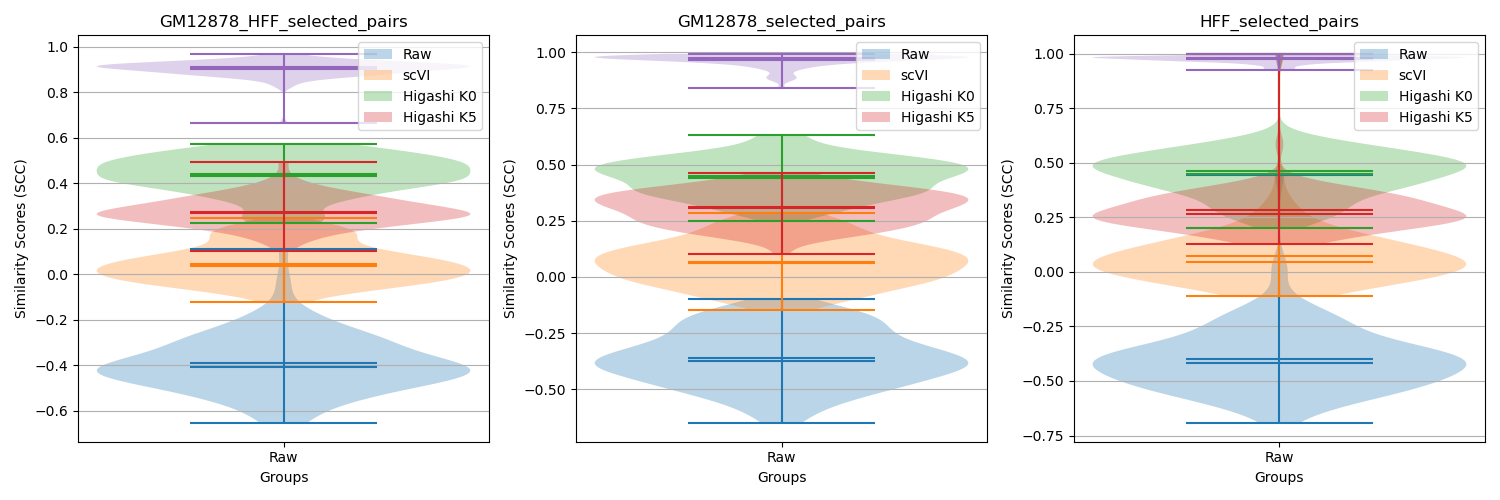
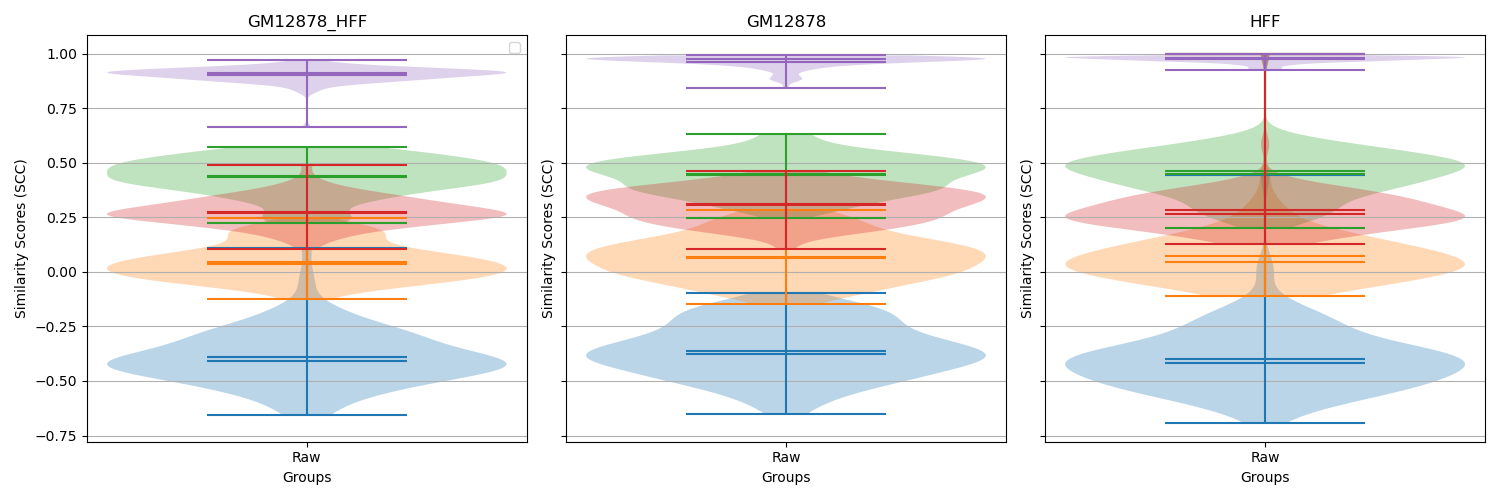
modified plot

diff --git a/experiments/2023-09-18/plot_SCC.py b/experiments/2023-09-18/plot_SCC.py
@@ -14,27 +14,30 @@ GM12878_pairs = "GM12878_selected_pairs.txt"
 HFF_pairs =  "HFF_selected_pairs.txt"
 pairs_list = [GM12878_HFF_pairs, GM12878_pairs, HFF_pairs]
 
-plt.figure(figsize=(15, 5))  
+#plt.figure(figsize=(15, 5))  
 
 violins = []
+fig, axes = plt.subplots(1, len(pairs_list), figsize=(15, 5), sharey=True)
+
 for j, p in enumerate(pairs_list):
-    plt.subplot(131+j)
-    plt.xticks([1,2,3,4,5], ["Raw","RWR", "scVI","Higashi K0","Higashi K5"])
+    ax = axes[j]  # Get the current axis
+    ax.set_xticks([1, 2, 3, 4, 5])
+    ax.set_xticklabels(["Raw", "RWR", "scVI", "Higashi K0", "Higashi K5"])
+    
     for i, d in enumerate(dirs):
-        temp_df  = pd.read_csv(os.path.join(d,p), sep='\t')
-        # temp_df.columns = ["cool1", "cool2", "HiCRep_SCC"]
-        #subplot_index = len(dirs) * j + i + 1
-        # Create subplot with four columns
-        #plt.subplot(len(pairs_list), len(dirs), subplot_index)
+        temp_df = pd.read_csv(os.path.join(d, p), sep='\t')
         temp_df["HiCRep_SCC"] = pd.to_numeric(temp_df["HiCRep_SCC"])
-        v = plt.violinplot(temp_df["HiCRep_SCC"], showmeans=True, showmedians=True)
-        violins.append(v['bodies'][0])
-        plt.xlabel('Groups')
-        plt.ylabel('Similarity Scores (SCC)')
-	# plt.legend()
-        plt.title(p.replace(".txt", ""))
-        plt.grid(axis='y')
-    plt.legend(violins,  ["Raw","scVI","Higashi K0","Higashi K5"])
-    plt.tight_layout()
+        
+        v = ax.violinplot(temp_df["HiCRep_SCC"], showmeans=True, showmedians=True)
+        ax.set_xlabel('Groups')
+        ax.set_ylabel('Similarity Scores (SCC)')
+        ax.set_title(p.replace("_selected_pairs.txt", ""))
+        ax.grid(axis='y')
+
+# Add a legend to the first subplot (you can customize this as needed)
+axes[0].legend(violins, ["Raw", "RWR", "scVI", "Higashi K0", "Higashi K5"])
+
+plt.tight_layout()
 plt.savefig(os.path.join("/project/compbio-lab/scHi-C/Kim2020/similarity_scores/SCC_plot_2.png"))
 plt.savefig(os.path.join("/home/maa160/SnapHiC-D/experiments/2023-09-18/SCC_plot_2.png"))
+
